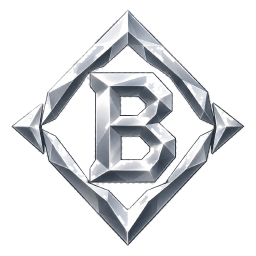
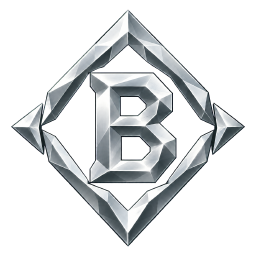
ARAM: real emblems for D and B
The user delivered D and B on a magenta backdrop; keyed out with server/tools/emblems.mjs, the
stand-ins replaced. AI-NOTES.md updated.

diff --git a/src/features/aram/AramRank.tsx b/src/features/aram/AramRank.tsx
@@ -10,7 +10,7 @@ import ss from './emblems/ss.png';
 import sss from './emblems/sss.png';
 import mayhem from './emblems/mayhem.png';
 
-/** The emblem of each tier (the user's pictures; D is a stand-in until its picture comes). */
+/** The emblem of each tier (the user's pictures). */
 const EMBLEMS: Record<Tier['id'], string> = { d, c, b, a, s, ss, sss, mayhem };
 
 const mark = (value: number) => value.toFixed(1).replace('.', ',');

diff --git a/AI-NOTES.md b/AI-NOTES.md
@@ -22,8 +22,7 @@ Wunsch des Benutzers: echte Ränge wie in einem Ranked-Modus, später vielleicht
 - Wappen: der eigene SVG-Entwurf gefiel nicht. Der Benutzer lässt sie von ChatGPT malen (Kristall-
   Stil). Eingebaut als 256-px-PNGs in `src/features/aram/emblems/`, vorbereitet mit
   `node server/tools/emblems.mjs <Ordner mit 1-D.png … 8-MAYHEM.png> src/features/aram/emblems`
-  (entfernt eingebranntes Schachbrett oder Magenta-Hintergrund #FF00FF, schneidet zu). **Platzhalter:**
-  D ist C in Grau, B hat Löcher im Silber – der Benutzer liefert beide neu auf Magenta. Keine
+  (entfernt eingebranntes Schachbrett oder Magenta-Hintergrund #FF00FF, schneidet zu). D und B kamen auf Magenta nach, alle acht sind die echten Bilder. Keine
   fremden Grafiken (Riot, Overwatch, Marvel Rivals usw.) übernehmen.
 
 **Fertig (Code im Repo, noch ohne Oberfläche):**
@@ -48,7 +47,6 @@ Wunsch des Benutzers: echte Ränge wie in einem Ranked-Modus, später vielleicht
 
 **Nächste Schritte:**
 
-- Wappen D und B ersetzen, sobald der Benutzer sie als Datei liefert.
 - Etappe 4: Note und Aufstieg auf der Karte nach dem Spiel (`AramResult.tsx`), Popout, Home-Widget;
   Aufstieg einmal animiert, nie dauerhaft.
 - Etappe 5: Saisons (Start = Gruppen-Start, `RATING_VERSION` gehört zur Saison).
@@ -84,6 +82,8 @@ Rechnung aus `aramRating.ts`, vorher Riot per Developer-Portal fragen.
   wurde, ist später weg.
 
 ## Verlauf
+
+- 30.09.2026 (3): Wappen D und B durch die echten Bilder (Magenta-Hintergrund) ersetzt.
 
 - 30.09.2026 (2): Reiter „Rang“ mit den Wappen des Benutzers (D/B Platzhalter), Werkzeug
   `emblems.mjs`, Mock-Spiele mit allen zehn.
